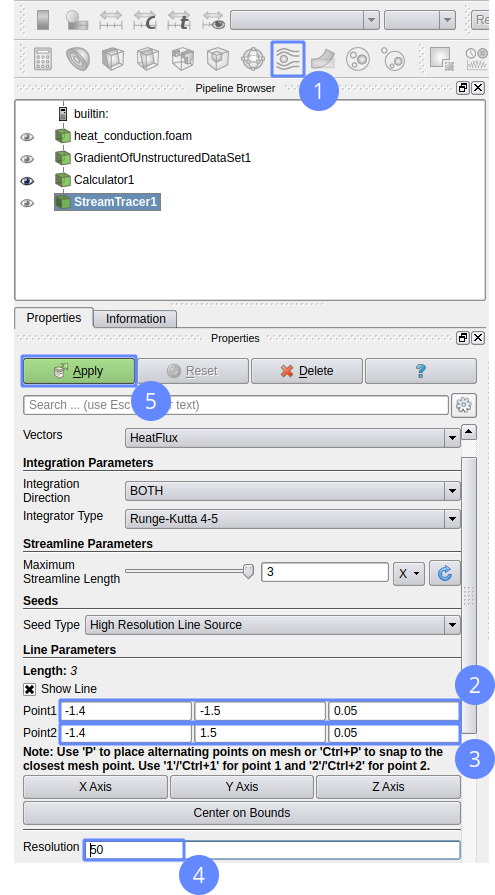
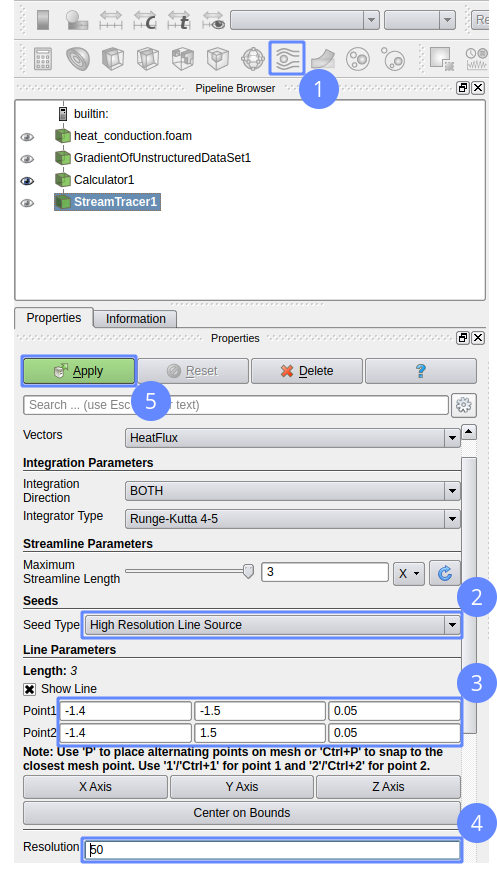
Correction to heat-conditions

Changed region(s): [[0.0303, 0.3364, 1.0, 1.0], [0.0303, 0.0, 1.0, 0.3364]]

diff --git a/content/heat-conduction.rst b/content/heat-conduction.rst
@@ -18,8 +18,8 @@ Introduction
 
 In the following tutorial you will learn how to:
 
-  * Create heat conduction through the copper plate
-  * Use parameters and apply it to inputs
+  * Create heat conduction through a copper plate
+  * Create parameters and parametrized inputs
   * Apply heat flux at a wall
   * Compute heat flux and display heat flow paths
 
@@ -111,17 +111,18 @@ Create Mesh
 View Mesh
 ---------------------
 
-When the mesh is ready you should see the following result. This is 2D mesh with one
-cell in `z` direction. In SimFlow all meshes are defined as 3D. The 2D flow is
-enforced by the ``empty`` boundary type assigned to the front and back sides.
+When the mesh is ready you should see the following result. This is 2D mesh 
+with one cell along `Z` direction. In SimFlow all meshes are defined as 3D. 
+The 2D flow is enforced by the ``empty`` boundary type assigned to the front 
+and back sides.
 
 In our example the mesh consists of 5 boundaries:
 
-  #. boundaries (top and bottom sides)
-  #. left
-  #. right
-  #. box_1 (derived from box geometry)
-  #. empty (front and back sides, green in the picture below)
+  #. `boundaries` (top and bottom sides)
+  #. `left`
+  #. `right`
+  #. `box_1` (derived from box geometry)
+  #. `empty` (front and back sides, green in the picture below)
 
 .. image:: ./figures/heat-conduction/ht-7-view-mesh.png
 .. :width: 400 px
@@ -129,9 +130,9 @@ In our example the mesh consists of 5 boundaries:
 
 Select Solver
 ---------------------
-Now we need to choose what type of problem we are going to solve.
-By selecting the solver we choose the appropriate numerical algorithm
-suitable to solve specific phenomena.
+Now we need to decide what type of problem we are going to solve. 
+By selecting the solver we choose the  numerical algorithm that will be used 
+to simulate specific phenomena.
 
 For this tutorial, we will choose the ``Laplacian`` solver.
 This solver implements a Finite Volume Method to solve the `Laplace Equation`:
@@ -168,8 +169,8 @@ Create Parameters ( I )
 Create Parameters ( II )
 ----------------------------------------
 
-While we are still in the ``Parameters`` panel we will add next parameters in
-the same way as before:
+While we are still in the ``Parameters`` panel we will add additiona parameters
+using analogous steps:
 
   #. `Cp` = :input:`390`
   #. `rho` = :input:`8960`
@@ -194,16 +195,16 @@ Box Boundary Heat Flux
 ----------------------------------------
 
 For the `box_1` boundary we will assign heat flux equal
-:math:`0.1[\frac{W}{s m^2}]`. The collection of available boundary
-conditions doesn't contain exactly the heat flux condition. However, it
-is possible the achieve the same effect by using the ``Fixed Gradient``
-condition. To do this we will use the
-`Fourier Law`:
+:math:`0.1[\frac{W}{s \cdot m^2}]`. The list of available boundary conditions 
+does not contain a specific heat flux condition. However, it is possible the 
+achieve the same effect by using the ``Fixed Gradient`` condition. To do this 
+we will use the `Fourier Law`:
 
 .. math::
     q = -\kappa \cdot \nabla T \rightarrow \nabla T = -\frac{q}{\kappa}
 
 To apply heat flux at `box_1` wall:
+
   #. Go to ``Boundary Conditions`` panel
   #. Select `box_1` boundary
   #. Change ``Type`` to ``Fixed Gradient``
@@ -254,11 +255,10 @@ results during the calculation.
 Run Simulation
 ----------------------------------------
 
-Finally, we can start the simulation. The `Laplace Equation` is a linear partial
-differential equation and can be solved just in 1 iteration. We
-should expect that the solver will converge just after making one iteration.
-We do not have to change maximum ``Number of Iterations`` because solver will
-stop when the convergence criterion is fulfilled.
+Now we can start the simulation. The Laplace Equation is a linear partial 
+differential equation and can be solved in just one iteration. 
+We do not have to change maximum ``Number of Iterations`` because the solver 
+will stop as soon as the convergence criterion is fulfilled.
 
   #. Go to ``Run`` panel
   #. Click on ``Run Simulation`` button
@@ -269,10 +269,11 @@ stop when the convergence criterion is fulfilled.
 View Results
 ----------------------------------------
 
-In the `Create Slice Monitor`_ slide we have to add slice for sampling results
-during the calculation. We can preview the results in the ``Slices`` tab.
+In the `Create Slice Monitor`_ step we have added a slice for sampling results
+during the calculation. We can preview the results in the ``Slices`` tab of 
+graphics panel.
 
-  #. Go to ``Slices`` tab in the 3D graphics window
+  #. Go to ``Slices`` tab in the 3D graphics panel
   #. Click on ``Adjust range to data`` button
 
 .. image:: ./figures/heat-conduction/ht-17-view-results.png
@@ -283,8 +284,8 @@ Postprocess with ParaView
 Using the slice tool we have initially viewed results. However, a more
 comprehensive postprocessing task can be done using the ParaView application.
 
-Using the ParaView we will compute the heat flux vector field and draw heat flow
-paths.
+Using the ParaView we will compute the heat flux vector field and draw heat 
+flow paths.
 
   #. Change panel to ``Postprocessing``
   #. Click on ``ParaView`` button
@@ -330,7 +331,8 @@ We need to recompute gradient to obtain heat flux:
   #. Click on ``Calculator`` button
   #. Set ``Result Array Name`` to ``HeatFlux``
   #. Type heat flux formula ``-401 * gradT``
-     (:input:`401` value denotes copper conductivity)
+  
+     :input:`401` is the copper heat conductivity in SI units
 
 .. image:: ./figures/heat-conduction/ht-22-calculate-heat-flux.png
 
@@ -339,8 +341,13 @@ Heat Flux Streamlines
 ----------------------------------------
 
   #. Add ``StreamTracer`` filter
-  #. Specify streamline source line ``Point1`` to :vector:`-1.4 -1.5 0.05`
-  #. Set ``Point2`` to :vector:`-1.4 1.5 0.05`
+  #. Make sure that `High Resolution Line Source` is selected as ``Seed Type``.
+  #. Specify streamline source line
+  
+     ``Point1`` :vector:`-1.4 -1.5 0.05`
+    
+     ``Point2`` :vector:`-1.4 1.5 0.05`
+    
   #. Set source line ``Resolution`` to :input:`50`
   #. Click ``Apply`` to finish
 

diff --git a/content/tutorial.rst b/content/tutorial.rst
@@ -91,3 +91,7 @@ View Mesh
 
 
 .. image:: ./figures/tutorial/screenshot_16.png
+
+
+
+.. image:: ./figures/tutorial/screenshot_3.png
